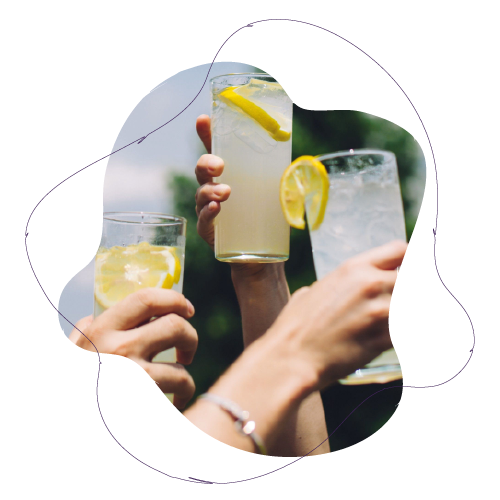
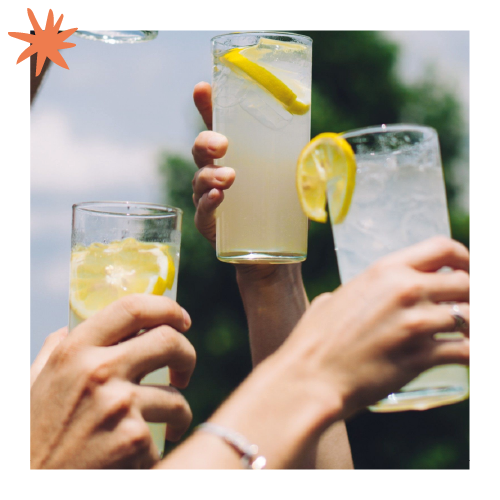
Cambie fotos de galería

diff --git a/index.html b/index.html
@@ -449,7 +449,7 @@ las mejores recetas de tragos con ingredientes seleccionados.</p>
     <div class="container-xxl py-6">
         <div class="container">
             <div class="text-center mx-auto mb-5 wow fadeInUp" data-wow-delay="0.1s" style="max-width: 500px;">
-                <h1 class="display-6 mb-4">Ellos ya encontraron su sabor</h1>
+                <h1 class="display-6 mb-4">Sabores anteriores</h1>
             </div>
             <div class="row g-4">
                 <div class="col-lg-3 col-md-6 wow fadeInUp" data-wow-delay="0.1s">
